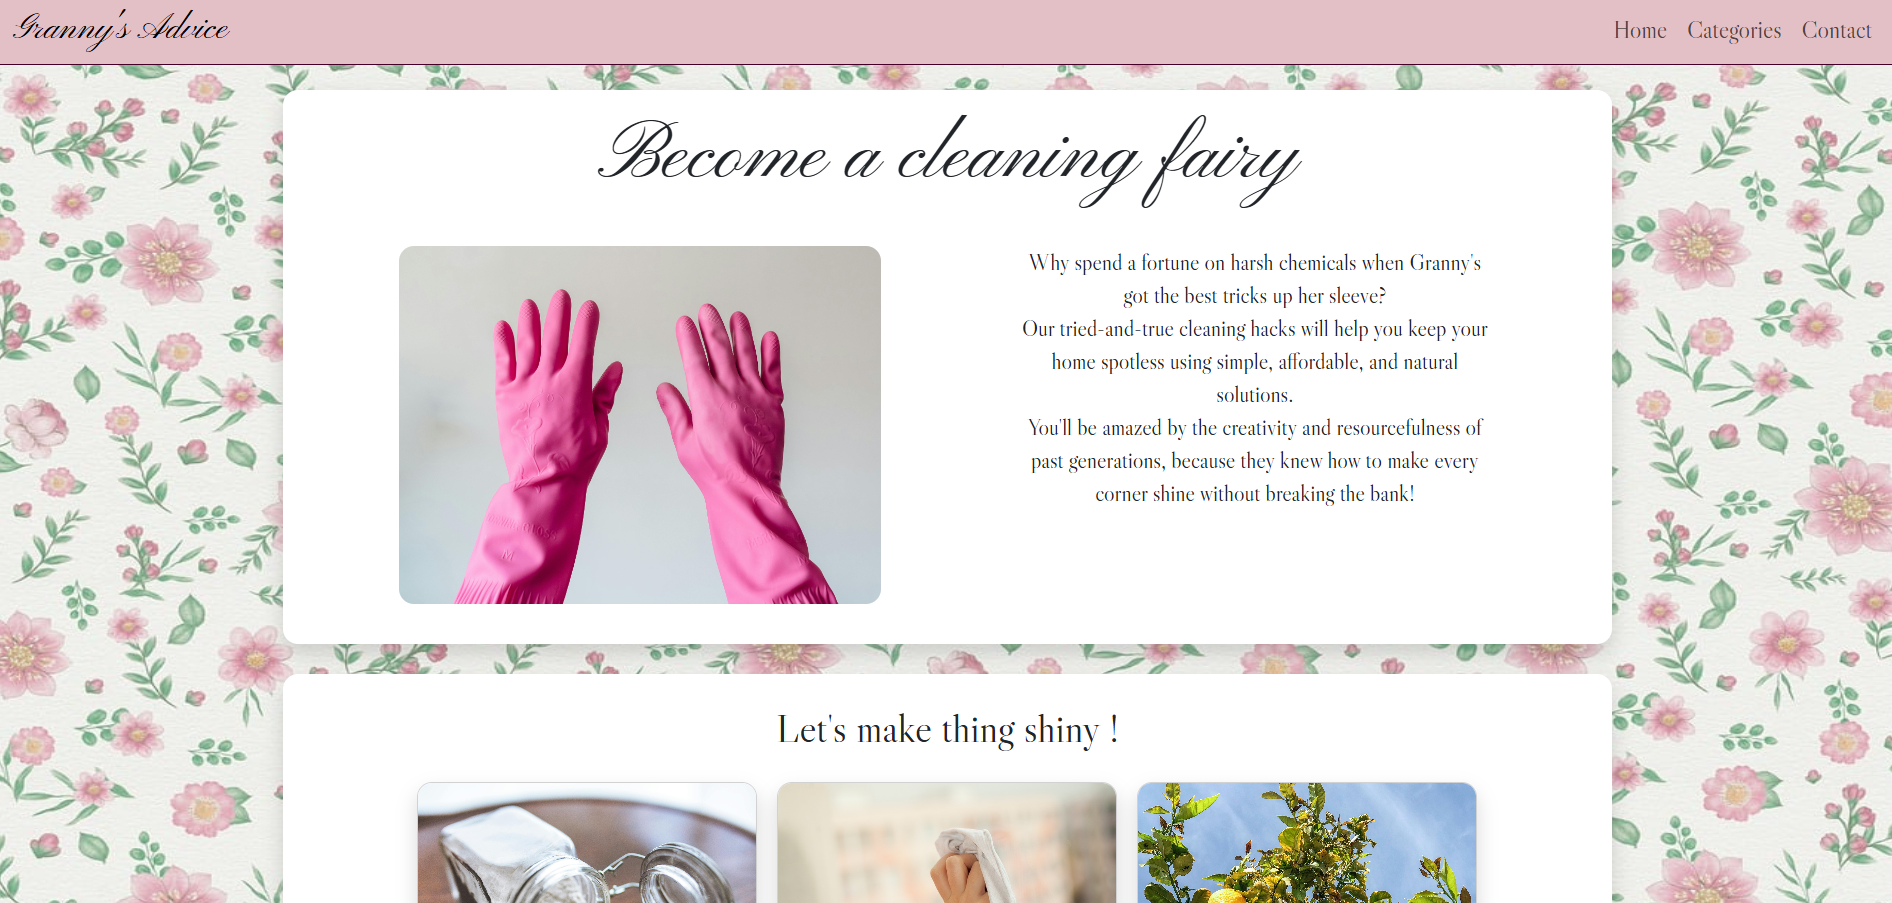
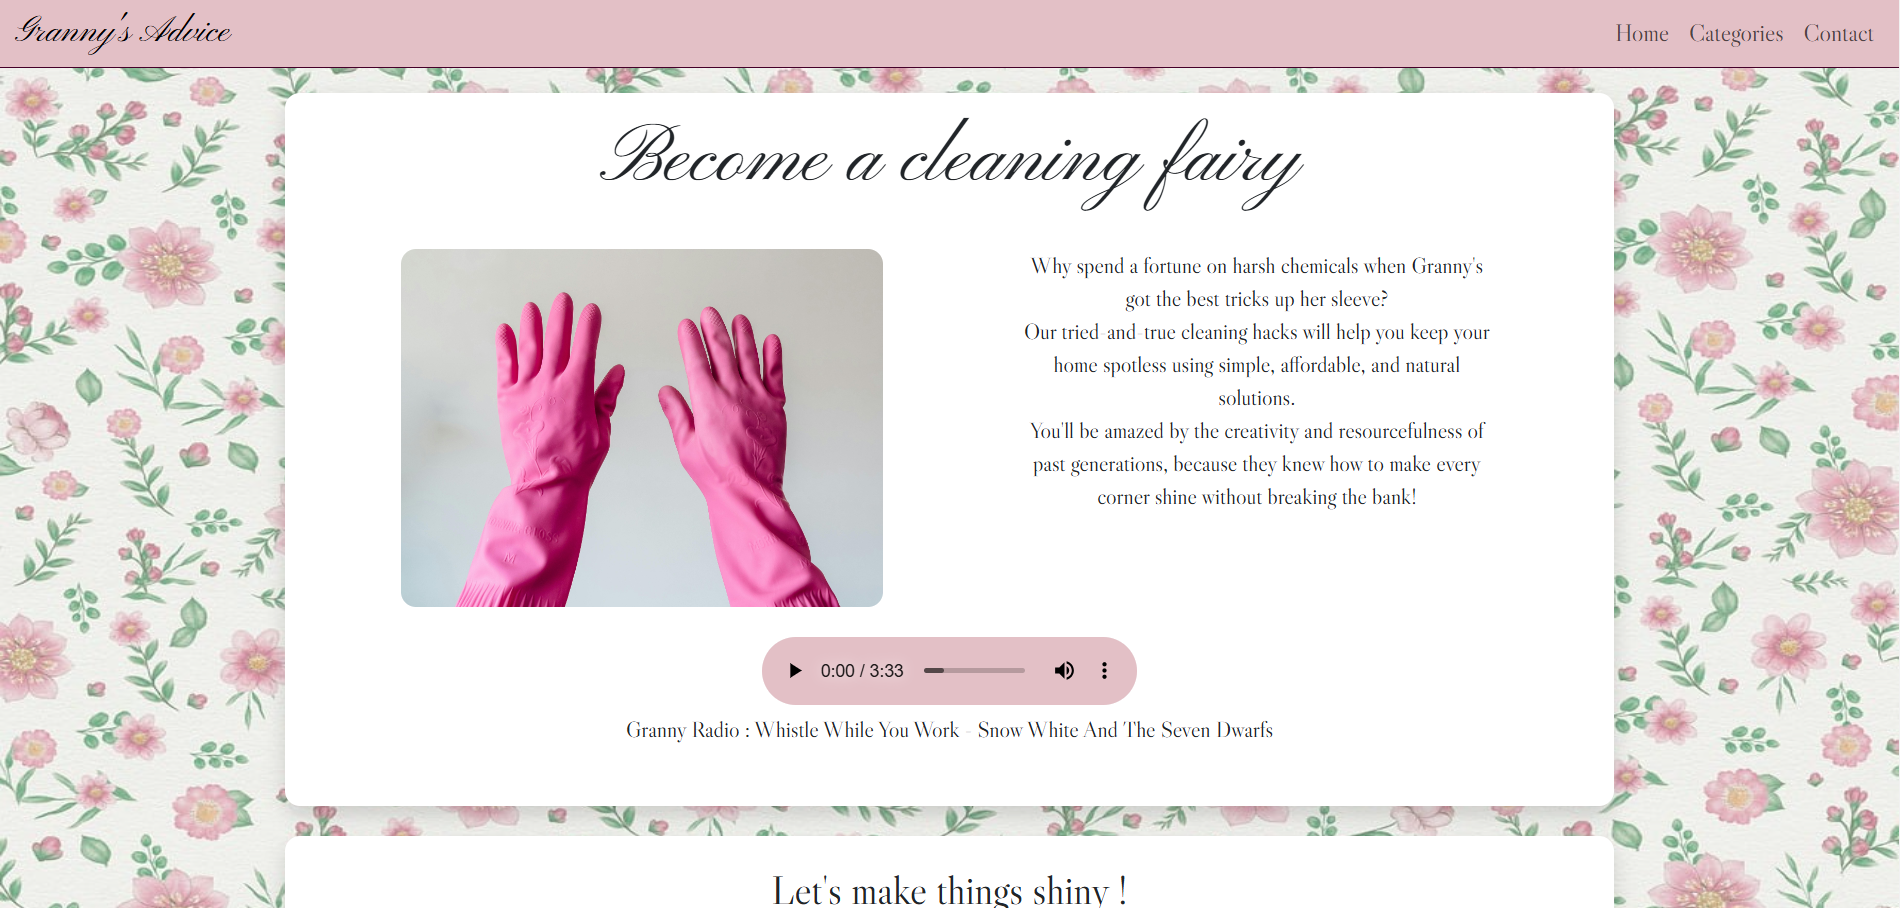
Improved README.md

diff --git a/README.md b/README.md
@@ -30,12 +30,7 @@ The design of the website blends modern, user-friendly navigation with nostalgic
 The primary business goal of Granny's Advice is to increase social media traffic. By encouraging users to engage with the website’s content and follow us on social media thanks to call to actions. The website will strategically use keywords to make it easier for people to find the content they need, whether searching for life tips or simply enjoying a nostalgic escape. In the future, we plan to implement monetization strategies such as advertisements or prenium content.
 
 ## Target audiance
-The target audience for Granny's Advice primarily consists of young adults between the ages of 18-35. These individuals are likely transitioning to independent living and may be looking for affordable, practical tips on managing daily life, chores, and budgeting. Additionally, the nostalgic aesthetic appeals to younger generations who are drawn to vintage or comforting content, while older generations will recognize and appreciate the familiar feel of "grandmother's advice."
-
-## Why they are the target:
-- Budget-Conscious: Many young adults are navigating their first experiences with managing finances and household tasks. They seek affordable, practical advice to make everyday life easier.
-- Nostalgia: Younger generations enjoy nostalgic content, especially related to family, comfort, and simpler times. This trend is popular on social media and resonates with this demographic.
-- Familiar Aesthetic: The vintage, grandmotherly design appeals to users who seek a sense of comfort and emotional connection, drawing them in with warm, timeless visuals.
+The target audience for Granny's Advice primarily consists of young adults between the ages of 18-35. These individuals are likely transitioning to independent living and may be looking for affordable, practical tips on managing daily life, chores, and budgeting. Additionally, the nostalgic aesthetic appeals to younger generations who are drawn to vintage or comforting content, while older generations will recognize and appreciate the familiar feel of "grandmother's advice." This nostalgic trend is popular on social media and resonates with this demographic. We implemented emotional triggers throughout the website based on insights from user interview results we received to touch this audiance.
 
 ## User intervew
 The design logic of this website was based on the most popular responses from our user interview. These insights guided us in choosing the preferred layout, emotional triggers, and visual elements (such as colors and patterns) that evoke memories of their grandmothers. Additionally, it helped us determine the content that would be most useful and appealing, attracting visitors to our site.
@@ -63,10 +58,12 @@ The design logic of this website was based on the most popular responses from ou
 5. Contact Us Footer: Provides contact details and social media links for users to get in touch with Granny, ask questions, or seek advice.
 <img src="assets/images/images-readme/footer.png" alt="Alt text" width="200">
 
+6. Audio player in remedies.html, cleaning.html, build-a-home.html and recipes.html. The audio player enhances user immersion by providing theme-matching songs that align with the content of each page. With controls to give them the options of playing it and th volume.
+<img src="assets/images/images-readme/audio-player.png" alt="Alt text" width="200">
 
 ## All the pages
 - The Home page seen above.
-- recipes.html
+- recipes.html with collapse buttons
 
 <img src="assets/images/images-readme/recipes.1.png" alt="Alt text" width="200">
 <img src="assets/images/images-readme/recipes.2.png" alt="Alt text" width="200">
@@ -94,10 +91,10 @@ The design logic of this website was based on the most popular responses from ou
 
 ## Lighthouse results
 <img src="assets/images/images-readme/ligthouse.png" alt="Alt text" width="200">
+Due to the large number of images, performance had the lowest scores on the pages. However, Accessibility and Best Practices reached a score of 100 on every page.
 
 ## CSS and HTML Validator
 Every pages of this website passes the HTML Validator and the CSS Validator
-
 
 ## Futur features 
 1. Newsletter Subscription: A "Join my newsletter" option for users to receive extra content.
@@ -146,7 +143,7 @@ Content Focus: Aligned with the most popular responses.
 
 - Worked on cards for the main section, ensuring they fit visually with the header.
 Struggled with responsiveness but created a section class and set:
- max-width: 90%; And this solved the problem.
+ max-width: 90%;
 
 - Initially wanted a fixed footer to keep social media links always visible (important for the business plan).
 It was too thick, so I opted for a fixed navbar instead for easier navigation on small devices as there is a lot of scrolling.
@@ -164,7 +161,7 @@ align-self: center;
 The collapse function worked but expanded all cards at once instead of individually.
 Tried multiple JavaScript and Bootstrap classes solutions but couldn't get an accordion effect. Decided to leave it as is and revisit when I improve my JavaScript skills.
 
-- Created cards without buttons for other pages. Researched content using ChatGPT & the internet. Struggled to find aesthetic images that fit the page’s vibe without being heavy to load on the screen, which ended up being the biggest performance problem.
+- Created cards without buttons for other pages. Struggled to find aesthetic images that fit the page’s vibe without being heavy to load on the screen, which ended up being the biggest performance problem.
 
 - Added shadows to cards and sections for a better visual effect.
 Initially struggled but ended up using Bootstrap.
@@ -185,6 +182,8 @@ Added borders to the navbar and footer for better separation.
 Added a favicon for branding. <img src="assets/images/images-readme/logo-tab.png" alt="Alt text" width="200"> 
 
     Updated card design by removing margins around images for a more modern look but keeping rounded corners for a 60s aesthetic across the website.
+
+- I struggled with GitHub as some commits didn’t go through. I tried creating new files based on online research to repair the workflow but ended up deleting them, after which the commits were successfully pushed.
 
 
 ## Credits
